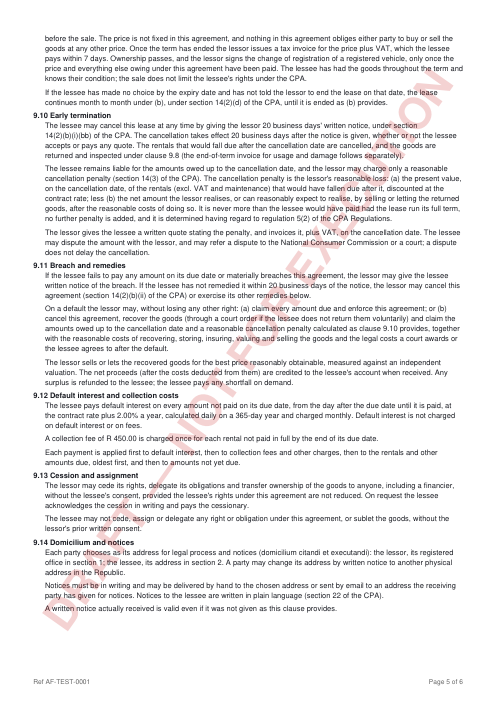
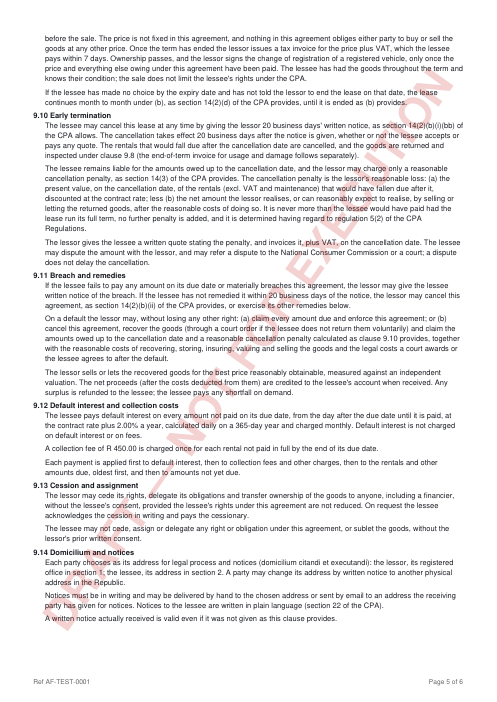
fix(af-docs): s14 citations read as English for juristic lessees
s14() spliced "this agreement, on the terms section 14(x) of the CPA sets
for a natural-person consumer" into sentences, which broke them (quote 5.1:
"as this agreement, on the terms … allows"). It is now s14Source ("section
14(x) of the CPA" or "this agreement") plus, for a juristic lessee, a
separate sentence: "Section 14(x) of the CPA does not apply to a juristic
lessee, but this agreement gives the lessee/you the same terms as it gives a
natural-person consumer." All seven sites (lease 9.9, 9.10 twice, 9.11;
expiry notice 4.1; quote 5.1, 5.2) are asserted as whole sentences for both
lessee kinds. Lease samples re-rendered.

Changed region(s): [[0.0604, 0.1496, 0.9356, 0.8974], [0.332, 0.1197, 0.8149, 0.1496]]

diff --git a/lib/asset-finance/documents/wording/lease-agreement-end.ts b/lib/asset-finance/documents/wording/lease-agreement-end.ts
@@ -20,9 +20,12 @@ const para = (...parts: (string | false)[]): string => parts.filter((p): p is st
 const months = (n: number): string => (n === 1 ? "one month" : `${n} months`)
 const CPA_DAYS = `${CPA_CANCELLATION_NOTICE_BUSINESS_DAYS} business days`
 
-/** The statute for a natural-person lessee; a juristic CPA lessee gets the same terms by contract (s14(1) excludes it). */
-export const s14 = (i: Pick<LeaseWordingInput, "naturalPerson">, subsection: string): string =>
-  i.naturalPerson ? `section 14(${subsection}) of the CPA` : `this agreement, on the terms section 14(${subsection}) of the CPA sets for a natural-person consumer`
+type Lessee = Pick<LeaseWordingInput, "naturalPerson">
+/** What a s14 term rests on: the statute for a natural-person lessee, this agreement for a juristic one (s14(1) excludes it). */
+export const s14Source = (i: Lessee, subsection: string): string => (i.naturalPerson ? `section 14(${subsection}) of the CPA` : "this agreement")
+/** For a juristic lessee, the sentence that says why the agreement gives the s14 term; nothing for a natural person. */
+export const s14Note = (i: Lessee, subsection: string, who: string): string => (i.naturalPerson ? ""
+  : ` Section 14(${subsection}) of the CPA does not apply to a juristic lessee, but this agreement gives ${who} the same terms as it gives a natural-person consumer.`)
 
 function endOptions(i: LeaseWordingInput): string {
   const maintenance = i.fml ? " and maintenance" : ""
@@ -47,8 +50,8 @@ function endOptions(i: LeaseWordingInput): string {
       ? "The lessee has had the goods throughout the term and knows their condition; the sale does not limit the lessee's rights under the CPA."
       : "The goods are sold in the condition they are in at the end of the term, which the lessee knows, without any warranty by the lessor (voetstoots)."),
     i.cpa
-      ? "If the lessee has made no choice by the expiry date and has not told the lessor to end the lease on that date, the lease continues month to month under (b), under "
-        + `${s14(i, "2)(d")}, until it is ended as (b) provides.`
+      ? "If the lessee has made no choice by the expiry date and has not told the lessor to end the lease on that date, the lease continues month to month under (b), as "
+        + `${s14Source(i, "2)(d")} provides, until it is ended as (b) provides.${s14Note(i, "2)(d", "the lessee")}`
       : "If the lessee has made no choice by the expiry date, it must return the goods on that date under clause 9.8. Until it does, the lessor may by written notice treat the "
         + "lease as extended under (b) from the expiry date.",
   )
@@ -63,10 +66,10 @@ export const CPA_CANCELLATION_CHARGE = "The cancellation penalty is the lessor's
 function earlyTermination(i: LeaseWordingInput): string {
   if (i.cpa) {
     return para(
-      `The lessee may cancel this lease at any time by giving the lessor ${CPA_DAYS}' written notice, under ${s14(i, "2)(b)(i)(bb")}. The cancellation takes effect `
+      `The lessee may cancel this lease at any time by giving the lessor ${CPA_DAYS}' written notice, as ${s14Source(i, "2)(b)(i)(bb")} allows.${s14Note(i, "2)(b)(i)(bb", "the lessee")} The cancellation takes effect `
       + `${CPA_DAYS} after the notice is given, whether or not the lessee accepts or pays any quote. The rentals that would fall due after the cancellation date are `
       + "cancelled, and the goods are returned and inspected under clause 9.8 (the end-of-term invoice for usage and damage follows separately).",
-      `The lessee remains liable for the amounts owed up to the cancellation date, and the lessor may charge only a reasonable cancellation penalty (${s14(i, "3")}). `
+      `The lessee remains liable for the amounts owed up to the cancellation date, and the lessor may charge only a reasonable cancellation penalty, as ${s14Source(i, "3")} provides. `
       + CPA_CANCELLATION_CHARGE,
       "The lessor gives the lessee a written quote stating the penalty, and invoices it, plus VAT, on the cancellation date. The lessee may dispute the amount with the "
       + "lessor, and may refer a dispute to the National Consumer Commission or a court; a dispute does not delay the cancellation.",
@@ -88,7 +91,8 @@ function earlyTermination(i: LeaseWordingInput): string {
 function breach(i: LeaseWordingInput): string {
   const events = i.cpa
     ? `If the lessee fails to pay any amount on its due date or materially breaches this agreement, the lessor may give the lessee written notice of the breach. If the lessee `
-      + `has not remedied it within ${CPA_DAYS} of the notice, the lessor may cancel this agreement (${s14(i, "2)(b)(ii")}) or exercise its other remedies below.`
+      + `has not remedied it within ${CPA_DAYS} of the notice, the lessor may cancel this agreement, as ${s14Source(i, "2)(b)(ii")} provides, or exercise its other remedies `
+      + `below.${s14Note(i, "2)(b)(ii", "the lessor")}`
     : "The lessee is in default if it: fails to pay any amount on its due date; breaches any other term and does not remedy the breach within "
       + `${COMMERCIAL_REMEDY_DAYS} days of the lessor's written notice; is placed under provisional or final sequestration, liquidation or deregistration, commits an act of `
       + "insolvency, or offers a compromise to its creditors; allows a judgment against it to stay unsatisfied for 7 days; allows the goods to be attached; or gave materially "

diff --git a/lib/asset-finance/documents/lease/lease-servicing-documents.test.ts b/lib/asset-finance/documents/lease/lease-servicing-documents.test.ts
@@ -54,14 +54,16 @@ describe("CPA expiry notice", () => {
     const clauses = expiryNoticeClauses(NOTICE)
     expect(clauses.map((c) => c.heading)).toEqual(["Consequences of taking no action before the expiry date", "How to tell us your choice"])
     const text = await expectClauses(await renderLeaseExpiryNotice(NOTICE, LENDER), 4, clauses)
-    expect(text).toContain("If you have not told us your choice by 30 June 2027, your lease does not simply end. Under this agreement, on the terms section 14(2)(d)")
+    expect(text).toContain("If you have not told us your choice by 30 June 2027, your lease does not simply end. As this agreement provides, it then continues "
+      + "month to month after the expiry date. Section 14(2)(d) of the CPA does not apply to a juristic lessee, but this agreement gives you the same terms as it "
+      + "gives a natural-person consumer. It continues on the same terms")
     expect(text).toContain("You may end the month-to-month lease at any time by giving us at least 20 business days' written notice")
     expect(text).toContain("We may end it by giving you one month's written notice")
     expect(text).toContain("Extend month to month Continue the lease month to month on the same rentals. You may end the extension on 20 business days' written notice")
     expect(text).toContain("through our client portal, or by written notice to us, which may be sent by email")
     expect(words(clauses.map((c) => c.text).join(" "))).not.toMatch(/telephone|Either of us/)
     expect(words(expiryNoticeClauses({ ...NOTICE, extensionNoticeMonths: 2 })[0].text)).toContain("giving you 2 months' written notice")
-    expect(words(expiryNoticeClauses({ ...NOTICE, naturalPerson: true })[0].text)).toContain("your lease does not simply end. Under section 14(2)(d) of the CPA, it then")
+    expect(words(expiryNoticeClauses({ ...NOTICE, naturalPerson: true })[0].text)).toContain("your lease does not simply end. As section 14(2)(d) of the CPA provides, it then continues month to month after the expiry date. It continues")
   })
 
   it("carries no watermark once the lender's wording is approved, and is deterministic", async () => {
@@ -91,7 +93,10 @@ describe("early-termination quote", () => {
     const clauses = terminationQuoteClauses(QUOTE)
     expect(clauses.map((c) => c.heading)).toEqual(["Your cancellation", "The cancellation charge", "If you disagree with the charge"])
     const text = await expectClauses(await renderLeaseTerminationQuote(QUOTE, LENDER), 5, clauses)
-    expect(text).toContain("You gave us notice on 23 February 2027 to cancel your lease")
+    expect(text).toContain("You gave us notice on 23 February 2027 to cancel your lease, as this agreement allows on 20 business days' notice. Section "
+      + "14(2)(b)(i)(bb) of the CPA does not apply to a juristic lessee, but this agreement gives you the same terms as it gives a natural-person consumer. Your lease")
+    expect(text).toContain("the lessor may charge only a reasonable cancellation penalty, as this agreement provides. This quote states that charge.")
+    expect(text).not.toMatch(/on the terms section 14/)
     expect(text).toContain("Your lease therefore ends on 15 March 2027, whether or not you accept or pay this quote. The 14 rentals that would fall due after that date are cancelled.")
     expect(text).toContain("This quote states that charge.")
     expect(text).toContain("less (b) the net amount the lessor realises, or can reasonably expect to realise, by selling or letting the returned goods")
@@ -99,7 +104,7 @@ describe("early-termination quote", () => {
     expect(text).toContain("National Consumer Commission or a court. A dispute does not delay your cancellation.")
     expect(text).toContain("6. HOW TO REACH US")
     expect(text).not.toMatch(/takes effect if you accept|6\. HOW TO ACCEPT/)
-    expect(words(terminationQuoteClauses({ ...QUOTE, naturalPerson: true })[0].text)).toContain("as section 14(2)(b)(i)(bb) of the CPA allows")
+    expect(words(terminationQuoteClauses({ ...QUOTE, naturalPerson: true })[0].text)).toContain("to cancel your lease, as section 14(2)(b)(i)(bb) of the CPA allows on 20 business days' notice. Your lease")
   })
 
   it("a commercial lessee's quote is an offer to end the lease by agreement, with no CPA wording", async () => {

diff --git a/lib/asset-finance/documents/wording/lease-servicing.ts b/lib/asset-finance/documents/wording/lease-servicing.ts
@@ -12,7 +12,7 @@ import { CPA_CANCELLATION_NOTICE_BUSINESS_DAYS } from "../../lease-termination"
 import { formatIsoDatePdf } from "../pdf-layout"
 import type { ExpiryNoticeData, InspectionReportData, TerminationQuoteData } from "../lease/lease-docs-types"
 import type { WordingClause } from "./lease-agreement"
-import { CPA_CANCELLATION_CHARGE, s14 } from "./lease-agreement-end"
+import { CPA_CANCELLATION_CHARGE, s14Note, s14Source } from "./lease-agreement-end"
 import { INSPECTION_OBJECTION_BUSINESS_DAYS } from "./lease-agreement-goods"
 
 const para = (...parts: (string | false)[]): string => parts.filter((p): p is string => p !== false).join("\n\n")
@@ -29,8 +29,9 @@ export function expiryNoticeClauses(data: ExpiryNoticeData): WordingClause[] {
     {
       heading: "Consequences of taking no action before the expiry date",
       text: para(
-        `If you have not told us your choice by ${expiry}, your lease does not simply end. Under ${s14(data, "2)(d")}, it then `
-        + "continues month to month after the expiry date. It continues on the same terms, at the same monthly rental (and maintenance, if your lease includes it) as your "
+        `If you have not told us your choice by ${expiry}, your lease does not simply end. As ${s14Source(data, "2)(d")} provides, it then `
+        + `continues month to month after the expiry date.${s14Note(data, "2)(d", "you")} It continues `
+        + "on the same terms, at the same monthly rental (and maintenance, if your lease includes it) as your "
         + "last rental: no material change applies to the continued lease.",
         "While it continues you keep the goods, pay the rental each month, and keep the goods insured and in good condition as your lease agreement requires. You may end "
         + `the month-to-month lease at any time by giving us at least ${days}' written notice; it ends on the date in your notice, not earlier than ${days} after it. We may `
@@ -89,14 +90,14 @@ export function terminationQuoteClauses(data: TerminationQuoteData): WordingClau
       {
         heading: "Your cancellation",
         text: para(
-          `You gave us notice on ${formatIsoDatePdf(data.quotedOn)} to cancel your lease, as ${s14(data, "2)(b)(i)(bb")} allows on `
-          + `${CPA_CANCELLATION_NOTICE_BUSINESS_DAYS} business days' notice. Your lease therefore ends on ${on}, whether or not you accept or pay this quote. ${rentals("that date")} ${goods("that date")}`,
+          `You gave us notice on ${formatIsoDatePdf(data.quotedOn)} to cancel your lease, as ${s14Source(data, "2)(b)(i)(bb")} allows on `
+          + `${CPA_CANCELLATION_NOTICE_BUSINESS_DAYS} business days' notice.${s14Note(data, "2)(b)(i)(bb", "you")} Your lease therefore ends on ${on}, whether or not you accept or pay this quote. ${rentals("that date")} ${goods("that date")}`,
         ),
       },
       {
         heading: "The cancellation charge",
         text: para(
-          `You remain liable for the amounts owed up to ${on}, and the lessor may charge only a reasonable cancellation penalty (${s14(data, "3")}). `
+          `You remain liable for the amounts owed up to ${on}, and the lessor may charge only a reasonable cancellation penalty, as ${s14Source(data, "3")} provides. `
           + `This quote states that charge. ${CPA_CANCELLATION_CHARGE}`,
           `The lessor issues one tax invoice for the charge, plus VAT, due on ${on}. The arrears are already due. Default interest runs on any amount not paid by its due `
           + "date, as the lease agreement provides.",

diff --git a/lib/asset-finance/documents/lease/lease-documents.test.ts b/lib/asset-finance/documents/lease/lease-documents.test.ts
@@ -111,9 +111,9 @@ describe("lease agreements (C9)", () => {
     const text = await expectEveryClause(soleProprietor, 15)
     expect(text).toContain(`("the lessor") lets to Test Soleprop ("the lessee")`)
     expect(text).toContain("IMPORTANT (section 49 of the CPA)")
-    expect(text).toContain("the lease continues month to month under (b), under section 14(2)(d) of the CPA")
-    expect(text).toContain("The lessee may cancel this lease at any time by giving the lessor 20 business days' written notice, under section 14(2)(b)(i)(bb) "
-      + "of the CPA. The cancellation takes effect 20 business days after the notice is given, whether or not the lessee accepts or pays any quote.")
+    expect(text).toContain("the lease continues month to month under (b), as section 14(2)(d) of the CPA provides, until it is ended as (b) provides.")
+    expect(text).toContain("The lessee may cancel this lease at any time by giving the lessor 20 business days' written notice, as section 14(2)(b)(i)(bb) "
+      + "of the CPA allows. The cancellation takes effect 20 business days after the notice is given, whether or not the lessee accepts or pays any quote.")
     expect(text).toContain("less (b) the net amount the lessor realises, or can reasonably expect to realise, by selling or letting the returned goods")
     expect(text).toContain("It is never more than the lessee would have paid had the lease run its full term, no further penalty is added")
     expect(text).toContain("regulation 5(2) of the CPA Regulations")
@@ -136,9 +136,16 @@ describe("lease agreements (C9)", () => {
   it("a juristic CPA lessee gets the s14 terms by contract, not as the statute (s14(1))", async () => {
     const juristic: AnyDealDocumentData = { ...fml, lease: { ...lease, cpaApplies: true, cpaRule: "CPA_JURISTIC_UNDER_THRESHOLD" } }
     const text = await expectEveryClause(juristic, 17)
-    expect(text).toContain("under this agreement, on the terms section 14(2)(b)(i)(bb) of the CPA sets for a natural-person consumer")
+    // Whole sentences: the juristic form reads as English at every s14 site (9.9, 9.10, 9.11).
+    expect(text).toContain("the lease continues month to month under (b), as this agreement provides, until it is ended as (b) provides. Section 14(2)(d) of "
+      + "the CPA does not apply to a juristic lessee, but this agreement gives the lessee the same terms as it gives a natural-person consumer.")
+    expect(text).toContain("20 business days' written notice, as this agreement allows. Section 14(2)(b)(i)(bb) of the CPA does not apply to a juristic lessee, "
+      + "but this agreement gives the lessee the same terms as it gives a natural-person consumer. The cancellation takes effect")
+    expect(text).toContain("the lessor may charge only a reasonable cancellation penalty, as this agreement provides.")
+    expect(text).toContain("the lessor may cancel this agreement, as this agreement provides, or exercise its other remedies below. Section 14(2)(b)(ii) of the CPA")
+    expect(text).not.toMatch(/on the terms section 14|this agreement, on the terms/)
     expect(text).toContain("Section 14 does not apply between juristic persons, but this agreement gives the lessee the same rights")
-    expect(text).not.toMatch(/under section 14\(2\)\(d\) of the CPA|Its fixed-term rules \(section 14\) apply/)
+    expect(text).not.toMatch(/as section 14\(2\)\(d\) of the CPA provides|Its fixed-term rules \(section 14\) apply/)
   })
 
   it("the DRAFT watermark follows the lender's approval of the wording", async () => {
